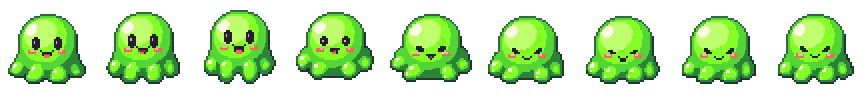
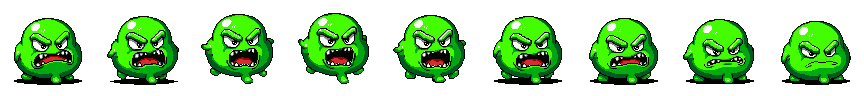
updated sprites and animations

diff --git a/static/game/scenes/zones/PrintForestScene.js b/static/game/scenes/zones/PrintForestScene.js
@@ -263,7 +263,7 @@ export default class PrintForestScene extends Phaser.Scene {
             { x: 500, y: 700, name: 'Print Slime', difficulty: 'easy', id: 'slime1', texture: 'enemy-slime', stats: { maxHp: 30, damage: 5, xp: 10 } },
             { x: 1000, y: 500, name: 'Variable Slime', difficulty: 'easy', id: 'slime2', texture: 'enemy-slime', stats: { maxHp: 40, damage: 8, xp: 15 } },
             { x: 1600, y: 900, name: 'Loop Slime', difficulty: 'easy', id: 'slime3', texture: 'enemy-slime', stats: { maxHp: 45, damage: 9, xp: 18 } },
-            { x: 2200, y: 1200, name: 'Boss: Syntax Error', difficulty: 'medium', id: 'boss1', texture: 'enemy-boss-glitch', stats: { maxHp: 60, damage: 12, xp: 30 } }
+            { x: 2200, y: 1200, name: 'Boss: Syntax Error', difficulty: 'medium', id: 'boss1', texture: 'enemy-boss-slime-king', stats: { maxHp: 60, damage: 12, xp: 30 } }
         ];
         
         slimeData.forEach(data => {
@@ -286,17 +286,6 @@ export default class PrintForestScene extends Phaser.Scene {
             enemy.body.setSize(24, 24); // Circular hitbox for top-down
             enemy.shadow = shadow;
             
-            // Add enemy name
-            const nameText = this.add.text(data.x, data.y - 35, data.name, {
-                fontSize: '16px',  // Increased from 10px to 16px
-                fontFamily: 'monospace',
-                color: data.difficulty === 'medium' ? '#ff0000' : '#ffff00',
-                stroke: '#000000',
-                strokeThickness: 3  // Increased from 2 to 3
-            }).setOrigin(0.5);
-            
-            enemy.nameText = nameText;
-            
             // Different patrol patterns for variety
             if (data.id === 'slime1') {
                 // Horizontal patrol
@@ -308,8 +297,6 @@ export default class PrintForestScene extends Phaser.Scene {
                     repeat: -1,
                     ease: 'Sine.easeInOut',
                     onUpdate: () => {
-                        nameText.x = enemy.x;
-                        nameText.y = enemy.y - 25;
                         shadow.x = enemy.x;
                         shadow.y = enemy.y + 10;
                     }
@@ -324,8 +311,6 @@ export default class PrintForestScene extends Phaser.Scene {
                     repeat: -1,
                     ease: 'Sine.easeInOut',
                     onUpdate: () => {
-                        nameText.x = enemy.x;
-                        nameText.y = enemy.y - 25;
                         shadow.x = enemy.x;
                         shadow.y = enemy.y + 10;
                     }
@@ -336,7 +321,7 @@ export default class PrintForestScene extends Phaser.Scene {
                 const centerX = enemy.x;
                 const centerY = enemy.y;
                 const radius = 60;
-                
+
                 this.time.addEvent({
                     delay: 50,
                     loop: true,
@@ -344,8 +329,6 @@ export default class PrintForestScene extends Phaser.Scene {
                         angle += 0.05;
                         enemy.x = centerX + Math.cos(angle) * radius;
                         enemy.y = centerY + Math.sin(angle) * radius;
-                        nameText.x = enemy.x;
-                        nameText.y = enemy.y - 25;
                         shadow.x = enemy.x;
                         shadow.y = enemy.y + 10;
                     }
@@ -355,7 +338,7 @@ export default class PrintForestScene extends Phaser.Scene {
                 let t = 0;
                 const centerX = enemy.x;
                 const centerY = enemy.y;
-                
+
                 this.time.addEvent({
                     delay: 50,
                     loop: true,
@@ -363,8 +346,6 @@ export default class PrintForestScene extends Phaser.Scene {
                         t += 0.05;
                         enemy.x = centerX + Math.sin(t) * 100;
                         enemy.y = centerY + Math.sin(t * 2) * 50;
-                        nameText.x = enemy.x;
-                        nameText.y = enemy.y - 25;
                         shadow.x = enemy.x;
                         shadow.y = enemy.y + 10;
                     }
@@ -506,8 +487,6 @@ export default class PrintForestScene extends Phaser.Scene {
         // otherwise strand the player on a faded-out screen forever.
         this.cameras.main.fade(500, 0, 0, 0);
         this.time.delayedCall(500, () => {
-            // Clean up name texts
-            enemy.nameText.destroy();
             enemy.destroy();
 
             // Switch to battle scene

diff --git a/static/game/scenes/zones/ConditionalCavernsScene.js b/static/game/scenes/zones/ConditionalCavernsScene.js
@@ -207,16 +207,6 @@ export default class ConditionalCavernsScene extends Phaser.Scene {
             enemy.body.setSize(textureWidth * 0.545, textureWidth * 0.545);
             enemy.shadow = shadow;
 
-            const nameText = this.add.text(data.x, data.y - 45, data.name, {
-                fontSize: '16px',
-                fontFamily: 'monospace',
-                color: data.difficulty === 'medium' ? '#ff0000' : '#cc99ff',
-                stroke: '#000000',
-                strokeThickness: 3
-            }).setOrigin(0.5);
-
-            enemy.nameText = nameText;
-
             if (data.id === 'cond1') {
                 // Horizontal patrol
                 this.tweens.add({
@@ -227,8 +217,6 @@ export default class ConditionalCavernsScene extends Phaser.Scene {
                     repeat: -1,
                     ease: 'Sine.easeInOut',
                     onUpdate: () => {
-                        nameText.x = enemy.x;
-                        nameText.y = enemy.y - 35;
                         shadow.x = enemy.x;
                         shadow.y = enemy.y + 15;
                     }
@@ -243,8 +231,6 @@ export default class ConditionalCavernsScene extends Phaser.Scene {
                     repeat: -1,
                     ease: 'Sine.easeInOut',
                     onUpdate: () => {
-                        nameText.x = enemy.x;
-                        nameText.y = enemy.y - 35;
                         shadow.x = enemy.x;
                         shadow.y = enemy.y + 15;
                     }
@@ -263,8 +249,6 @@ export default class ConditionalCavernsScene extends Phaser.Scene {
                         angle += 0.05;
                         enemy.x = centerX + Math.cos(angle) * radius;
                         enemy.y = centerY + Math.sin(angle) * radius;
-                        nameText.x = enemy.x;
-                        nameText.y = enemy.y - 35;
                         shadow.x = enemy.x;
                         shadow.y = enemy.y + 15;
                     }
@@ -282,8 +266,6 @@ export default class ConditionalCavernsScene extends Phaser.Scene {
                         t += 0.05;
                         enemy.x = centerX + Math.sin(t) * 100;
                         enemy.y = centerY + Math.sin(t * 2) * 50;
-                        nameText.x = enemy.x;
-                        nameText.y = enemy.y - 35;
                         shadow.x = enemy.x;
                         shadow.y = enemy.y + 15;
                     }
@@ -394,7 +376,6 @@ export default class ConditionalCavernsScene extends Phaser.Scene {
         // otherwise strand the player on a faded-out screen forever.
         this.cameras.main.fade(500, 0, 0, 0);
         this.time.delayedCall(500, () => {
-            enemy.nameText.destroy();
             enemy.destroy();
 
             this.scene.stop('UIScene');

diff --git a/static/game/scenes/zones/LoopForestScene.js b/static/game/scenes/zones/LoopForestScene.js
@@ -284,16 +284,6 @@ export default class LoopForestScene extends Phaser.Scene {
             enemy.body.setSize(24, 24);
             enemy.shadow = shadow;
 
-            const nameText = this.add.text(data.x, data.y - 35, data.name, {
-                fontSize: '16px',
-                fontFamily: 'monospace',
-                color: data.difficulty === 'medium' ? '#ff0000' : '#90EE90',
-                stroke: '#000000',
-                strokeThickness: 3
-            }).setOrigin(0.5);
-
-            enemy.nameText = nameText;
-
             if (data.id === 'loop1') {
                 // Horizontal patrol
                 this.tweens.add({
@@ -304,8 +294,6 @@ export default class LoopForestScene extends Phaser.Scene {
                     repeat: -1,
                     ease: 'Sine.easeInOut',
                     onUpdate: () => {
-                        nameText.x = enemy.x;
-                        nameText.y = enemy.y - 25;
                         shadow.x = enemy.x;
                         shadow.y = enemy.y + 10;
                     }
@@ -320,8 +308,6 @@ export default class LoopForestScene extends Phaser.Scene {
                     repeat: -1,
                     ease: 'Sine.easeInOut',
                     onUpdate: () => {
-                        nameText.x = enemy.x;
-                        nameText.y = enemy.y - 25;
                         shadow.x = enemy.x;
                         shadow.y = enemy.y + 10;
                     }
@@ -340,8 +326,6 @@ export default class LoopForestScene extends Phaser.Scene {
                         angle += 0.05;
                         enemy.x = centerX + Math.cos(angle) * radius;
                         enemy.y = centerY + Math.sin(angle) * radius;
-                        nameText.x = enemy.x;
-                        nameText.y = enemy.y - 25;
                         shadow.x = enemy.x;
                         shadow.y = enemy.y + 10;
                     }
@@ -359,8 +343,6 @@ export default class LoopForestScene extends Phaser.Scene {
                         t += 0.05;
                         enemy.x = centerX + Math.sin(t) * 100;
                         enemy.y = centerY + Math.sin(t * 2) * 50;
-                        nameText.x = enemy.x;
-                        nameText.y = enemy.y - 25;
                         shadow.x = enemy.x;
                         shadow.y = enemy.y + 10;
                     }
@@ -478,7 +460,6 @@ export default class LoopForestScene extends Phaser.Scene {
         // otherwise strand the player on a faded-out screen forever.
         this.cameras.main.fade(500, 0, 0, 0);
         this.time.delayedCall(500, () => {
-            enemy.nameText.destroy();
             enemy.destroy();
 
             this.scene.stop('UIScene');

diff --git a/static/game/scenes/PreloadScene.js b/static/game/scenes/PreloadScene.js
@@ -10,6 +10,19 @@ export default class PreloadScene extends Phaser.Scene {
 
     preload() {
         console.log('PreloadScene preload method called');
+
+        // Stamp every image/spritesheet URL with the page's version so
+        // browsers can't keep serving a stale cached copy of an asset after
+        // it's been updated on disk - Phaser loads these by plain static
+        // path with no cache-busting otherwise (unlike the top-level scene
+        // imports in game.html, which already get a ?v= from Django).
+        const assetVersion = window.ASSET_VERSION || Date.now();
+        const withVersion = (url) => url + (url.includes('?') ? '&' : '?') + 'v=' + assetVersion;
+        const originalLoadImage = this.load.image.bind(this.load);
+        const originalLoadSpritesheet = this.load.spritesheet.bind(this.load);
+        this.load.image = (key, url, ...rest) => originalLoadImage(key, withVersion(url), ...rest);
+        this.load.spritesheet = (key, url, ...rest) => originalLoadSpritesheet(key, withVersion(url), ...rest);
+
         // Show loading progress
         const width = this.cameras.main.width;
         const height = this.cameras.main.height;
@@ -108,7 +121,7 @@ export default class PreloadScene extends Phaser.Scene {
         this.load.spritesheet('enemy-boss-dragon', '/static/game/assets/enemies/dragon_boss_attack.png', { frameWidth: 96, frameHeight: 96 });
 
         this.load.spritesheet('enemy-slime', '/static/game/assets/enemies/slime_attack.png', { frameWidth: 96, frameHeight: 96 });
-        this.load.spritesheet('enemy-boss-glitch', '/static/game/assets/enemies/glitch_boss_attack.png', { frameWidth: 160, frameHeight: 160 });
+        this.load.spritesheet('enemy-boss-slime-king', '/static/game/assets/enemies/slime_king_attack.png', { frameWidth: 160, frameHeight: 160 });
         this.load.spritesheet('enemy-treant', '/static/game/assets/enemies/treant_attack.png', { frameWidth: 96, frameHeight: 96 });
         this.load.spritesheet('enemy-boss-treant', '/static/game/assets/enemies/treant_boss_attack.png', { frameWidth: 160, frameHeight: 160 });
 

diff --git a/static/game/scenes/BattleScene.js b/static/game/scenes/BattleScene.js
@@ -228,6 +228,13 @@ export default class BattleScene extends Phaser.Scene {
         this.enemySprite = this.add.sprite(width * 0.75, spriteY, enemyTextureKey, 0);
         this.enemySprite.setScale(enemyScale);
 
+        // The dragon boss's source art breathes fire toward the bottom-right
+        // of its own frame; mirrored here so the attack animation aims left,
+        // toward the player, instead of off into empty space
+        if (enemyTextureKey === 'enemy-boss-dragon') {
+            this.enemySprite.setFlipX(true);
+        }
+
         // Add idle animation to enemy (bouncing effect)
         this.tweens.add({
             targets: this.enemySprite,

diff --git a/templates/game.html b/templates/game.html
@@ -28,8 +28,12 @@
         window.CSRF_TOKEN = '{{ csrf_token }}';
 
         // Cache-busted during development so edits show up on the next reload
-        // without needing a hard refresh.
+        // without needing a hard refresh. Exposed globally so PreloadScene
+        // can stamp the same version onto every asset URL it loads (images/
+        // spritesheets have no cache-busting otherwise, since Phaser loads
+        // them by plain static path).
         const v = '{% now "U" %}';
+        window.ASSET_VERSION = v;
 
         // Must resolve before anything reads window.gameState
         await import('{% static "game/GameState.js" %}?v=' + v);

diff --git a/static/game/enemyAnim.js b/static/game/enemyAnim.js
@@ -3,7 +3,7 @@
 // built from a PixelLab animate_image call on that enemy's base art.
 export const ENEMY_TEXTURE_KEYS = [
     'enemy-if-golem', 'enemy-elif-checker', 'enemy-else-wraith', 'enemy-boss-dragon',
-    'enemy-slime', 'enemy-boss-glitch', 'enemy-treant', 'enemy-boss-treant'
+    'enemy-slime', 'enemy-boss-slime-king', 'enemy-treant', 'enemy-boss-treant'
 ];
 
 export function enemyAttackAnimKey(textureKey) {
